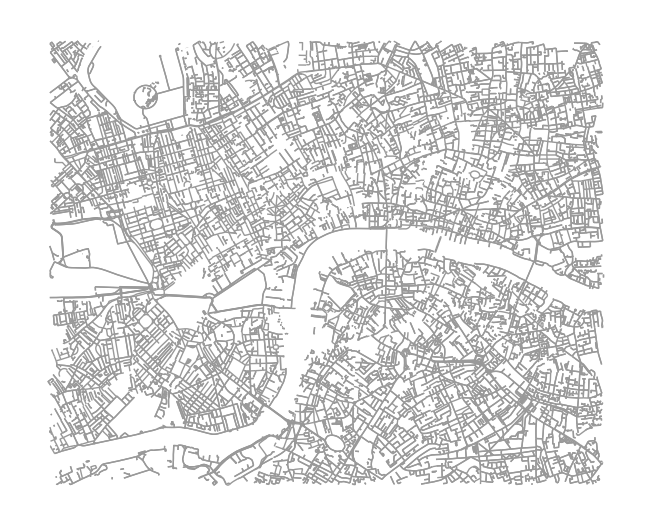
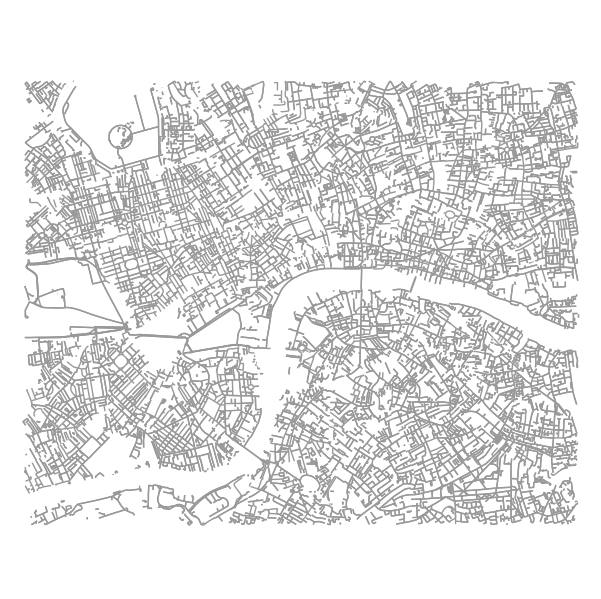
collect nets with new filters, tag def count table, clean ODmode matrix to DB

diff --git a/Submission/final/dissertation.tex b/Submission/final/dissertation.tex
@@ -379,6 +379,38 @@ no cars,
 \caption{Correlation between station/node metrics}
 \end{figure}
 
+
+
+
+
+\begin{tabular}{lrl}
+tag & count & definition \\
+bridleway& 46 & For horse riders\\
+crossing & 2 & A crosswalk \\
+cycleway & 4726 & Designated Cycleway\\
+living street & 153 & Pedestrians have legal priority over cars. Low speeds.\\
+no & 2 & Not an official tag \\
+path & 2432 & Generic, including footpaths, cycle paths, bridleways and tracks. \\
+pedestrian & 1650 & Roads mainly/exclusively for pedestrians.\\
+permissive & 2 & Not an official tag\\
+primary & 6668 & Important roads linking larger towns.\\
+primary link & 97 & link roads associated with primary roads.\\
+residential & 30021 & Roads that serve access to housing, without connecting settlements.\\
+ road & 4 & A highway of unknown type. \\
+secondary & 3272 & Less important than primary.\\
+secondary link & 46 & link roads associated with secondary roads.\\
+service & 16474 & Access roads to industrial or business parks, etc. \\
+tertiary & 5602 & Less important than secondary\\
+tertiary link & 26 & Link roads associated with tertiary roads. \\ 
+track & 492 & Roads for mostly agricultural or forestry uses. \\
+trunk & 2683 & Important roads that aren't motorways. \\
+trunk link & 134 & Link roads associated with trunk roads \\
+unclassified & 7637 & less important than tertiary. Artefact of UK road system.\\ 
+\end{tabular}
+
+
+
+
 \begin{tabular}{|l|l|l|l|}\hline
   \multirow{10}{*}{numeric literals} 				& \multirow{5}{*}{integers} 	& in decimal 					& \verb|8743| \\ \cline{3-4}
   					    				& 				       	& \multirow{2}{*}{in octal}   		& \verb|0o7464| \\ \cline{4-4}

diff --git a/Analysis/xlsx_to_DB.py b/Analysis/xlsx_to_DB.py
@@ -1,0 +1,50 @@
+# read O/D/Mode xlsx file, split sheets to dataframe, melt matrixes, push to DB
+
+import pandas as pd 
+
+file = 'Data/cleaned_jtw_by_mode_by_borough.xlsx'
+
+xls = pd.ExcelFile(file)
+
+
+sheets = pd.read_excel(xls, sheet_name = None)
+
+name_list = ['all', 'home', 'metro','train','bus','taxi','motorcycle','drive','van','bicycle','foot','other']
+
+df_list = []
+
+melted_df_list = []
+
+main_df = pd.DataFrame()
+
+for i, item in enumerate(sheets):
+
+	print('sheet number: ', i)
+
+	print('sheet name: ', item)
+
+	df = sheets[item]
+
+	df_list.append(df)
+
+	melted_df = pd.melt(df, id_vars = ['name'])
+
+	melted_df['mode'] = item
+
+	melted_df_list.append(melted_df)
+
+	file_name = str(item) + '.csv'
+
+	# melted_df.to_csv(file_name)
+
+	if i < 1:
+		main_df = melted_df
+	else:
+
+		main_df = main_df.append(melted_df)
+
+	# main_df.append(melted_df)
+
+main_df.to_csv('main_df.csv')
+
+

diff --git a/Analysis/bbox_test.py b/Analysis/bbox_test.py
@@ -52,7 +52,17 @@ net_4 = ox.graph_from_bbox(north, south, east, west, network_type = 'bike_4', re
 
 net_5 = ox.graph_from_bbox(north, south, east, west, network_type = 'bike_5', retain_all=True, name = 'London_box', )
 
-# fig3, ax3 = ox.plot_graph(net_3)
+fig2, ax2 = ox.plot_graph(net_2, node_alpha=0)
+fig2.savefig('box_bike_2.png')
+
+fig3, ax3 = ox.plot_graph(net_3, node_alpha=0)
+fig3.savefig('box_bike_3.png')
+
+fig4, ax4 = ox.plot_graph(net_4, node_alpha=0)
+fig4.savefig('box_bike_4.png')
+
+fig5, ax5 = ox.plot_graph(net_5, node_alpha=0)
+fig5.savefig('box_bike_5.png')
 
 
 

diff --git a/Analysis/osm_to_graph_to_db.py b/Analysis/osm_to_graph_to_db.py
@@ -101,7 +101,7 @@ if __name__ == "__main__":
 	# file_list = ['all']
 	# file_list = ['basic_bike','moderate_bike']
 	# file_list = ['secondary_bike', 'tertiary_bike']
-	file_list = ['bike_1', 'bike_2', 'bike_3', 'bike_4', 'bike_5']
+	file_list = ['bike_2', 'bike_3', 'bike_4', 'bike_5']
 	# custom filters
 
 
